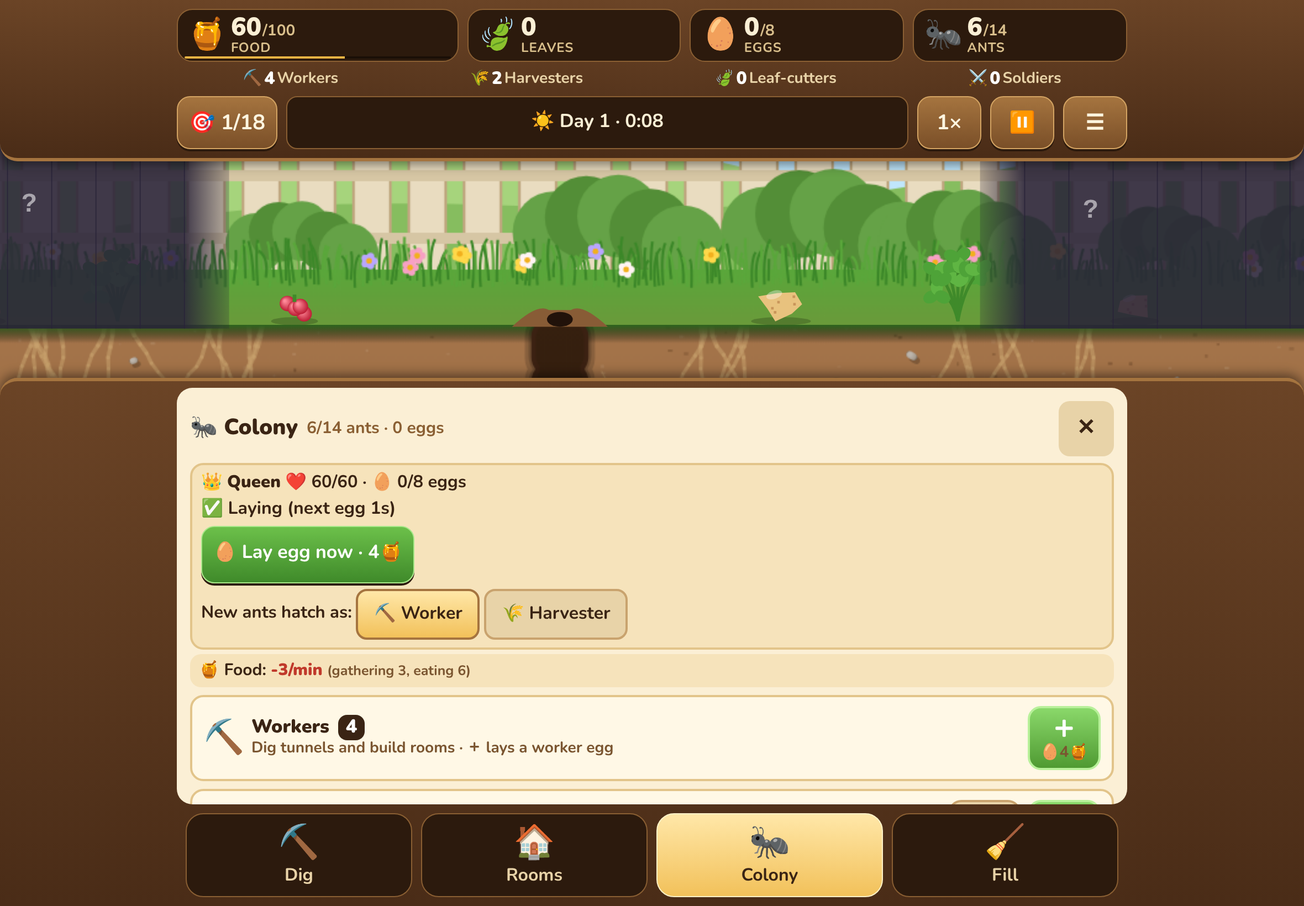
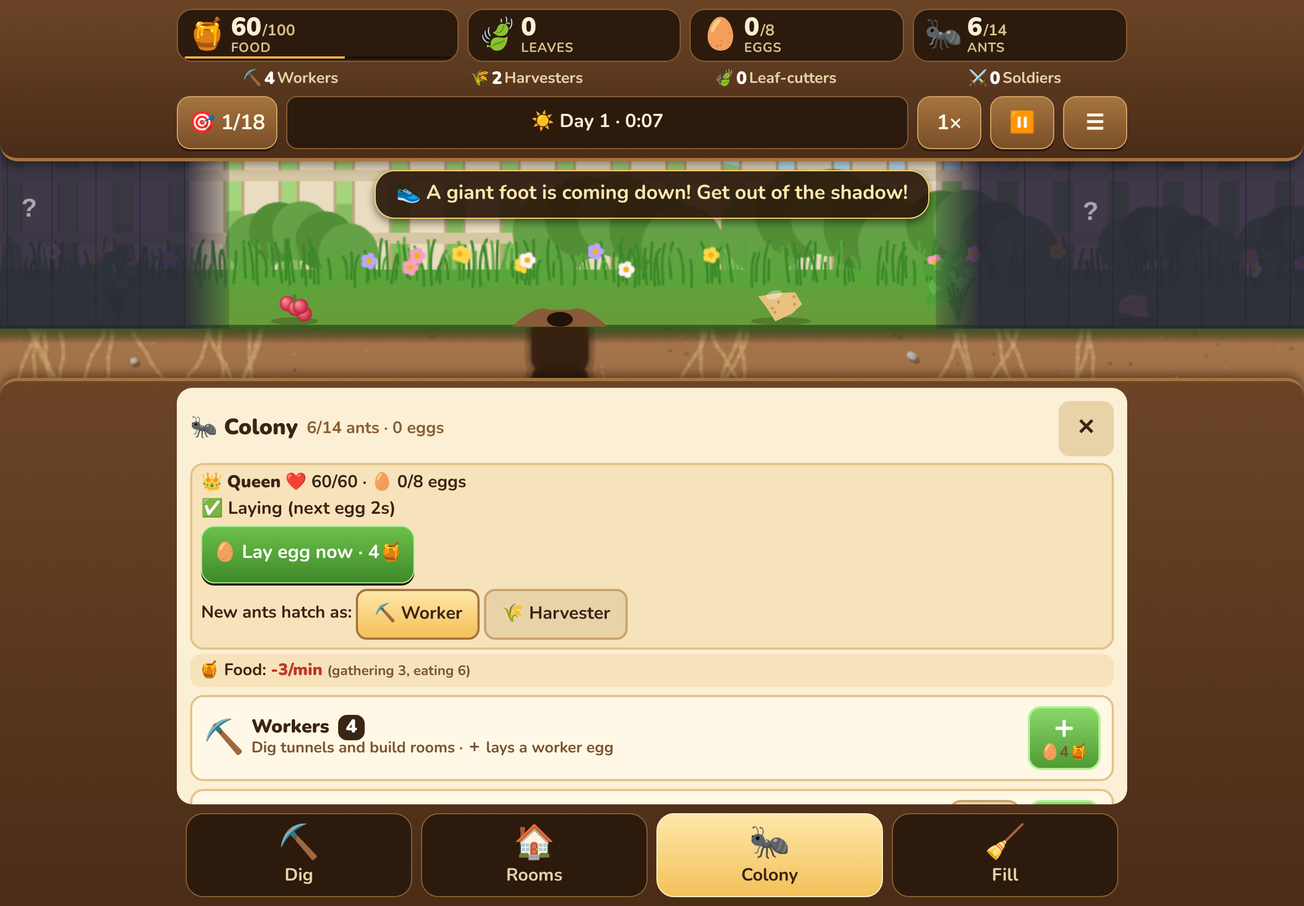
v1.2.0: kid-friendly balance from playthroughs (Easy raids spare queen/workers, slower starvation, idle workers help gather, no stacked raids, softer Hard hazards), Surface tutorial step, coach no longer covers Nest/Surface toggle, queen-regen death fix; balance + playthrough tests

Changed region(s): [[0.2784, 0.1555, 0.8042, 0.3732], [0.0, 0.2177, 0.0309, 0.2488]]

diff --git a/sim.js b/sim.js
@@ -1,6 +1,6 @@
 'use strict';
 // ================= Ant Haven — simulation =================
-const VERSION = 'ah-v1.1.1';
+const VERSION = 'ah-v1.2.0';
 const CS = 24, COLS = 64, ROWS = 34, ENT = 32, SURF_H = 300, NC = COLS * ROWS;
 const WW = COLS * CS, WH = ROWS * CS, ENTX = (ENT + .5) * CS, ENTI = ENT;  // entrance cell (ENT,0)
 const SOIL = 0, DUG = 1, PLAN = 2, ROCK = 3;
@@ -39,8 +39,8 @@ const BIOMES = {
   bloom: { name: 'Wild Bloom', emoji: '🌸', soon: true, card: ['#d96ba8', '#ffd6ea'] },
 };
 const DIFF = {
-  easy: { name: 'Easy', food: 50, eat: 1 / 85, raidFirst: 420, raidEvery: 240, raidBase: 3, raidGrow: 1, hp: 1, hillHp: 320, guards: 3, starve: .22, rainMul: 1 },
-  hard: { name: 'Hard', food: 40, eat: 1 / 62, raidFirst: 300, raidEvery: 180, raidBase: 4, raidGrow: 2, hp: 1.25, hillHp: 520, guards: 5, starve: .4, rainMul: 1.4 },
+  easy: { name: 'Easy', food: 50, eat: 1 / 85, raidFirst: 420, raidEvery: 240, raidBase: 3, raidGrow: 1, hp: 1, hillHp: 320, guards: 3, starve: .07, rainMul: 1, qRegen: .3, qSafe: true },
+  hard: { name: 'Hard', food: 40, eat: 1 / 62, raidFirst: 300, raidEvery: 180, raidBase: 4, raidGrow: 2, hp: 1.25, hillHp: 520, guards: 5, starve: .16, rainMul: 1.4, qRegen: .08, qSafe: false },
 };
 const ROOMS = {
   home: { name: 'Royal Nook', icon: '🏡', w: 5, h: 2, cost: {}, desc: 'Your starting chamber', cap: 100, eggs: 2, pop: 14 },
@@ -298,7 +298,7 @@ function assign(k, dir) {   // dir +1: convert a worker into k; -1: convert a k 
     return { ok: true, u };
   } else { const u = pickConvert(k); if (!u) return { ok: false, why: `No ${UT[k].name.toLowerCase()}s` }; setRole(u, 'worker'); return { ok: true, u }; }
 }
-function setRole(u, k) { const f = u.hp / u.max; u.k = k; u.max = UT[k].hp; u.hp = Math.max(1, Math.round(u.max * f)); u.st = 'idle'; u.job = -1; u.carry = 0; u.mode = 'guard'; u.wait = 0; u.train = 0; }
+function setRole(u, k) { const f = u.hp / u.max; u.k = k; u.help = 0; u.max = UT[k].hp; u.hp = Math.max(1, Math.round(u.max * f)); u.st = 'idle'; u.job = -1; u.carry = 0; u.mode = 'guard'; u.wait = 0; u.train = 0; }
 function orderSoldiers(ids, x, y, attack) {
   let n = 0; for (const id of ids) { const u = uById(id); if (!u || u.k !== 'soldier' || u.yd) continue;
     if (attack) { u.mode = 'attack'; u.path = []; u.rt = 0; } else { u.mode = 'move'; const gx = x + (n % 4 - 1.5) * 9, gy = isUnder(y) ? y : -3 - (n % 3) * 3; u.tx = gx; u.ty = gy; if (!route(u, gx, gy)) { u.mode = 'guard'; continue; } }
@@ -308,7 +308,7 @@ function guardSoldiers(ids) { for (const id of ids) { const u = uById(id); if (u
 
 // ---------------- AI ----------------
 function enemyNear(u, r, filter) { let best = null, bd = r; for (const e of S.units) { if (e.tm === u.tm || e.hp <= 0 || !e.yd !== !u.yd) continue; if (filter && !filter(e)) continue; const d = dist(u, e); if (d < bd) { bd = d; best = e; } } return best; }
-function hit(u, e, dt) { e.hp -= UT[u.k].dps * dt; u.atk = .25; u.ang = Math.atan2(e.y - u.y, e.x - u.x); e.lastHit = u.id;
+function hit(u, e, dt) { if (e.k === 'raider') e.lastBy = u.id; e.hp -= UT[u.k].dps * (u.k === 'raider' && e.k !== 'soldier' && D().qSafe ? .4 : 1) * dt; u.atk = .25; u.ang = Math.atan2(e.y - u.y, e.x - u.x); e.lastHit = u.id;
   if (rnd() < dt * 4) parts.push({ x: (u.x + e.x) / 2, y: (u.y + e.y) / 2 - 3, vx: (rnd() - .5) * 40, vy: -20 - rnd() * 30, t: .4, c: '#fff6c8', r: 1.2 }); }
 function engage(u, e, dt) {
   if (dist(u, e) < 15) { hit(u, e, dt); return; }
@@ -338,7 +338,7 @@ function deliver(u, leaf) {
   u.carry = 0;
 }
 function thinkForager(u, dt, leaf) {
-  const e = enemyNear(u, 14); if (e) { hit(u, e, dt); return; }
+  const e = D().qSafe ? null : enemyNear(u, 14); if (e) { hit(u, e, dt); return; }
   if (u.wait > 0) { u.wait -= dt; return; }
   if (u.carry > 0) {
     if (u.st !== 'home') { const r = depot(leaf), p = rndRoomPt(r); u.st = 'home'; if (!route(u, p.x, p.y)) { deliver(u, leaf); u.st = 'idle'; } return; }
@@ -367,8 +367,13 @@ function findDig(u) {
       if (n >= 0 && S.grid[n] === PLAN && !claimSet.has(n) && wl[n] < .5) { plan = n; return true; } return false; });
   return g < 0 ? null : { stand: g, plan };
 }
+function canHelp(u) { const ws = units('worker'); return ws.length >= 2 && ws[0] !== u && S.res.food < foodCap() * .92 && !hazardOn(); }
 function thinkWorker(u, dt) {
-  const e = enemyNear(u, 14); if (e) { hit(u, e, dt); return; }
+  const e = D().qSafe ? null : enemyNear(u, 14); if (e) { hit(u, e, dt); return; }
+  if (u.help) {   // idle worker lending a hand with food; goes back to digging when there is work
+    if (!u.carry) { u.hl = (u.hl || 0) - dt; if (u.hl <= 0) { u.hl = 1; if (findDig(u) || !canHelp(u)) { u.help = 0; u.st = 'idle'; u.path = []; u.idle0 = 0; } } }
+    if (u.help) { thinkForager(u, dt, false); return; }
+  }
   if (u.wait > 0) { u.wait -= dt; return; }
   if (u.job >= 0) {
     if (S.grid[u.job] !== PLAN) { u.job = -1; u.st = 'idle'; return; }
@@ -384,7 +389,8 @@ function thinkWorker(u, dt) {
   if (u.st === 'wander') { if (moveAlong(u, dt)) { u.st = 'idle'; u.wait = 1 + rnd() * 2; } return; }
   u.look = (u.look || 0) - dt; if (u.look > 0) return; u.look = .4 + rnd() * .3;
   const j = findDig(u);
-  if (j) { u.job = j.plan; claimSet.add(j.plan); const p = pt(j.stand, 4), q = pt(j.plan, 0); p.x += (q.x - p.x) * .3; p.y += (q.y - p.y) * .3; u.st = route(u, p.x, p.y) ? 'walk' : 'idle'; if (u.st === 'idle') { claimSet.delete(u.job); u.job = -1; } return; }
+  if (j) { u.idle0 = 0; u.job = j.plan; claimSet.add(j.plan); const p = pt(j.stand, 4), q = pt(j.plan, 0); p.x += (q.x - p.x) * .3; p.y += (q.y - p.y) * .3; u.st = route(u, p.x, p.y) ? 'walk' : 'idle'; if (u.st === 'idle') { claimSet.delete(u.job); u.job = -1; } return; }
+  if (!u.idle0) u.idle0 = S.t; if (S.t - u.idle0 > 12 && canHelp(u)) { u.help = 1; u.idle0 = 0; u.st = 'idle'; u.path = []; return; }
   // idle: wander between rooms
   const rs = doneRooms(); const r = rs[Math.floor(rnd() * rs.length)]; const p = rndRoomPt(r); if (route(u, p.x, p.y)) u.st = 'wander'; u.wait = .5 + rnd() * 2;
 }
@@ -406,17 +412,17 @@ function thinkSoldier(u, dt) {
   if (u.path.length) moveAlong(u, dt);
 }
 function thinkQueen(u, dt) {
-  const e = enemyNear(u, 15); if (e) { hit(u, e, dt); return; }
+  const e = D().qSafe ? null : enemyNear(u, 15); if (e) { hit(u, e, dt); return; }
   if (u.path.length) { moveAlong(u, dt); return; }
   u.wait -= dt; if (u.wait <= 0) { u.wait = 4 + rnd() * 5; const r = S.rooms.find(r => r.k === 'queen' && r.done) || homeRoom(); const p = rndRoomPt(r); route(u, p.x, p.y); }
 }
 function raidTarget() {
   const st = S.rooms.filter(r => r.done && ROOMS[r.k].cap);
   if (S.res.food >= 1 && st.length) return rndRoomPt(st[Math.floor(rnd() * st.length)]);
-  const q = queen(); return q ? { x: q.x, y: q.y } : rndRoomPt(homeRoom());
+  const q = queen(); return q && !D().qSafe ? { x: q.x, y: q.y } : rndRoomPt(st.length ? st[0] : homeRoom());
 }
 function thinkRaider(u, dt) {
-  const e = enemyNear(u, 15); if (e) { hit(u, e, dt); return; }
+  const e = enemyNear(u, 15, D().qSafe ? (x => x.k === 'soldier' || x.id === u.lastBy) : null); if (e) { hit(u, e, dt); return; }
   if (u.st === 'in') {
     const s = enemyNear(u, 70, e => e.k === 'soldier'); if (s) { engage(u, s, dt); return; }
     u.rt -= dt; if (!u.path.length && u.rt <= 0) { const p = raidTarget(); route(u, p.x, p.y); u.rt = 1.5; u.arr = 0; }
@@ -455,6 +461,7 @@ function eventsTick(dt) {
   // raids
   const lead = has('lookout') ? 45 : 12;
   if (!W.active && !W.warned && S.t > W.next - lead) { W.warned = true; say(has('lookout') ? '🔭 Lookout: enemy raid in 45s!' : '⚔ You hear marching… a raid is coming!', 'warn'); }
+  if (!W.active && S.t >= W.next && !H.on && S.yard && S.yard.foes.some(f => f.raid)) W.next = S.t + 45;   // don't stack with a Surface raid
   if (!W.active && S.t >= W.next && !H.on) {
     W.active = true; W.lost = 0; W.kills = 0; const n = dif.raidBase + Math.floor(W.n * dif.raidGrow) + (S.endless ? 2 : 0);
     const hx = !S.hill.dead ? S.hill.x : (W.n % 2 ? CS * 1.5 : WW - CS * 1.5);
@@ -477,7 +484,8 @@ function colonyTick(dt) {
   const dif = D(); const q = queen();
   // eating
   const e = upkeep() * dt; if (S.res.food >= e) { S.res.food -= e; S.st.eaten += e; } else { S.st.eaten += S.res.food; S.res.food = 0; }
-  if (S.res.food <= 0) { for (const u of S.units) if (u.tm === 0) u.hp -= dif.starve * (u.k === 'queen' ? .35 : 1) * dt; if (!S.flags.starveSaid || S.t - S.flags.starveSaid > 20) { S.flags.starveSaid = S.t; say('🍯 Out of food! Ants are starving — send harvesters!', 'bad'); } }
+  if (S.res.food <= 0) { for (const u of S.units) if (u.tm === 0 && !(u.k === 'harvester' || u.help || u.yd)) u.hp -= dif.starve * (u.k === 'queen' ? .35 : 1) * dt; if (!S.flags.starveSaid || S.t - S.flags.starveSaid > 20) { S.flags.starveSaid = S.t; say('🍯 Out of food! Ants are starving — send harvesters!', 'bad'); } }
+  if (q && q.hp > 0 && S.res.food > 0 && q.hp < q.max) q.hp = Math.min(q.max, q.hp + (dif.qRegen || 0) * dt);
   // queen lays eggs
   if (q) { const qr = S.rooms.find(r => r.k === 'queen' && r.done && !r.fl);
     S.qT -= dt * (qr ? 2 : 1) * ((S.haz.on && B().hazard.kind === 'cold') ? .6 : 1);
@@ -525,7 +533,7 @@ function goalsTick() { for (const [id, name, f] of GOALS) if (!S.goals[id] && f(
 function step(dt) {
   if (!S || S.over) return;
   S.t += dt;
-  if (S.tut < 5 && S.t < 360) { S.rain.next += dt; S.raid.next += dt; S.haz.next += dt; }   // calm while learning
+  if (S.tut < 6 && S.t < 360) { S.rain.next += dt; S.raid.next += dt; S.haz.next += dt; }   // calm while learning
   eventsTick(dt);
   S.wT = (S.wT || 0) - dt;
   if (S.water > 0) { const sumps = S.rooms.filter(r => r.k === 'sump' && r.done && roomCells(r).some(i => wl[i] > .05)).length; S.water = Math.max(0, S.water - (.05 + .0025 * dugCount + .4 * sumps) * dt); }

diff --git a/ui.js b/ui.js
@@ -15,6 +15,7 @@ const TUT = [
   { t: 'Time to dig! Tap <b>⛏ Dig</b>, then drag your finger from the tunnel into the dirt. Each cell costs 1 🍯.', hi: 'tab-dig', ok: () => S.st.planned >= 4 },
   { t: 'Rooms go next to tunnels. Tap <b>🏠 Rooms → Food Storage</b>, then tap beside your tunnel.', hi: 'tab-rooms', ok: () => roomsOf('storage').length > 0 },
   { t: 'Add a <b>🛏 Sleeping Den</b> so your colony can grow past 14 ants. Workers dig rooms out for you.', hi: 'tab-rooms', ok: () => roomsOf('den').length > 0 },
+  { t: 'There\'s a big yard outside! Tap <b>🗺 Surface</b>, then <b>🌾 Send</b> and tap food. Tap <b>🕳 Nest</b> to come back.', hi: 'vt-yard', ok: () => S.flags.yard },
   { t: 'You\'ve got it! Keep food above zero, follow <b>🎯 Goals</b>, and train soldiers before the first raid. Tap ✓.', hi: null, ok: () => false, done: true },
 ];
 function tutTick() {
@@ -95,7 +96,7 @@ function renderRooms(soft) {
 }
 function renderColony() {
   const el = $('sheet'); el.classList.remove('hidden'); const net = netPerMin();
-  const desc = { worker: 'Dig tunnels and build rooms', harvester: 'Bring food from the surface', cutter: 'Carry leaves to the Fungus Garden', soldier: 'Guard the nest, attack the enemy hill' };
+  const desc = { worker: 'Dig tunnels and build rooms · idle ones help gather food', harvester: 'Bring food from the surface', cutter: 'Carry leaves to the Fungus Garden', soldier: 'Guard the nest, attack the enemy hill' };
   const lay = canLay();
   const rows = ROLES.map(k => { const tr = TRAIN[k], v = k === 'worker' ? lay : canTrain(k);
     const plus = k === 'worker' ? `<button class="pm plus ${v.ok ? '' : 'off'}" data-a="lay:worker">＋<small>🥚${EGG_FOOD}🍯</small></button>` : `<button class="pm plus ${v.ok ? '' : 'off'}" data-a="+${k}">＋${tr ? `<small>${tr.food}🍯</small>` : ''}</button>`;
@@ -326,7 +327,7 @@ $('btn-goals').onclick = () => { UI.paused = true;
   overlay(`<h2>🎯 Goals</h2><ul class="goals">${GOALS.map(([id, n]) => `<li class="${S.goals[id] ? 'done' : ''}">${S.goals[id] ? '✅' : '⬜'} ${n}</li>`).join('')}</ul><p class="bdesc">Each goal gives +${GOAL_REWARD} 🍯. Destroy the enemy hill to win!</p><button class="big green" data-o="goalsclose">▶ Back to the colony</button>`); };
 function startGame(s, cont) {
   S = s; delete S.demo; UI.running = true; UI.paused = false; UI.sel = []; UI.speed = 1; $('btn-speed').textContent = '1×'; $('btn-speed').classList.remove('on'); $('btn-pause').textContent = '⏸';
-  inc = new Array(12).fill(0); parts.length = 0; events.length = 0; closeOverlay(); $('hud').classList.remove('hidden'); closeSheet(); setMode(null);
+  inc = new Array(12).fill(0); parts.length = 0; events.length = 0; $('toasts').innerHTML = ''; closeOverlay(); $('hud').classList.remove('hidden'); closeSheet(); setMode(null);
   let tutDone = false; try { tutDone = localStorage.getItem(TUT_KEY) === '1'; } catch (e) {} if (!cont && tutDone) S.tut = TUT.length;
   requestAnimationFrame(() => { measureHud(); cam.z = 1.15 * uiScale(); cam.x = ENTX + 50; cam.y = cont ? 60 : -30; clampCam(); });
   $('coach-t').dataset.k = ''; setView('nest', true); hud(); tutTick(); if (!cont) save();

diff --git a/yard.js b/yard.js
@@ -6,7 +6,7 @@ const OUT_POP = 6, OUT_FOOD = 2, OUT_FOOD_T = 10;          // outpost: +6 ant sp
 const YHAZ = {   // hazard tuning (selected by the Surface hazards setting)
   easy: { foot: [80, 115], footGrow: 2.2, footR: 48, react: .8, notice: .7, glass: [140, 190], glassLife: 15, glassSpd: 28, glassDps: 5, glassR: 24,
     bug: [75, 105], bugMax: 2, bugHp: 1, first: 60 },
-  hard: { foot: [42, 62], footGrow: 1.7, footR: 62, react: 1.0, notice: .35, glass: [80, 110], glassLife: 24, glassSpd: 42, glassDps: 9, glassR: 30,
+  hard: { foot: [55, 80], footGrow: 2.0, footR: 58, react: .85, notice: .5, glass: [90, 120], glassLife: 22, glassSpd: 40, glassDps: 7, glassR: 30,
     bug: [45, 65], bugMax: 4, bugHp: 1.45, first: 35 },
 };
 const YDIF = {   // rival colonies (selected by game difficulty)
@@ -247,7 +247,7 @@ function hazardTick(dt) {
 function yardTick(dt) {
   const yh = Y(); if (!yh) return; const d = YDIF[S.diff] || YDIF.easy, H = YHAZ[yh.hzLevel];
   if (!yh.init) { yh.init = 1; yardInitRivals(); }
-  if (S.tut < 5 && S.t < 360) { for (const k in yh.nx) yh.nx[k] += dt; }
+  if (S.tut < 6 && S.t < 360) { for (const k in yh.nx) yh.nx[k] += dt; }
   const mine = yAnts();
   // scheduling
   if (H) {
@@ -257,6 +257,7 @@ function yardTick(dt) {
       if (nb < H.bugMax) { const ks = Object.keys(BUGS), k = ks[Math.floor(rnd() * ks.length)], ref = mine.length ? mine[Math.floor(rnd() * mine.length)] : HOME; let x, y;
         for (let t = 0; t < 20; t++) { const a = rnd() * 7, r = 320 + rnd() * 200; x = clamp(ref.x + Math.cos(a) * r, 60, YW - 60); y = clamp(ref.y + Math.sin(a) * r, 60, YH - 60); if (yd2({ x, y }, HOME) > 220) break; }
         spawnHazard(k, x, y); } } }
+  if (S.t >= yh.nx.raid && (S.raid.active || S.raid.next - S.t < 60)) yh.nx.raid = S.t + 60;   // don't stack with a nest raid
   if (S.t >= yh.nx.raid) { yh.nx.raid = S.t + d.raidEvery[0] + rnd() * (d.raidEvery[1] - d.raidEvery[0]); startRaid(); }
   hazardTick(dt);
   // rival colonies grow

diff --git a/draw.js b/draw.js
@@ -26,7 +26,7 @@ function measureHud() { const t = document.getElementById('top'), b = document.g
   const land = W > H && H < 500, co = document.getElementById('coach'), fb = document.getElementById('fabs'), ts = document.getElementById('toasts'), sheet = document.getElementById('sheet');
   if (!co) return; const sheetOpen = sheet && !sheet.classList.contains('hidden');
   if (land) { co.style.top = ''; co.style.bottom = ''; fb.style.bottom = ''; ts.style.top = ''; const vt0 = document.getElementById('vtog'), mi0 = document.getElementById('mini'); if (vt0) vt0.style.bottom = ''; if (mi0) mi0.style.bottom = ''; return; }
-  if (sheetOpen) { co.style.bottom = 'auto'; co.style.top = (VIEW.top + 6) + 'px'; } else { co.style.top = 'auto'; co.style.bottom = (VIEW.bot + 8) + 'px'; }
+  if (sheetOpen) { co.style.bottom = 'auto'; co.style.top = (VIEW.top + 6) + 'px'; } else { const v1 = document.getElementById('vtog'), m1 = document.getElementById('mini'); const lift = Math.max(v1 ? v1.offsetHeight : 0, m1 && getComputedStyle(m1).display !== 'none' ? m1.offsetHeight : 0); co.style.top = 'auto'; co.style.bottom = (VIEW.bot + 18 + lift) + 'px'; }
   fb.style.bottom = (VIEW.bot + 10) + 'px'; const vt = document.getElementById('vtog'); if (vt) { vt.style.bottom = (VIEW.bot + 10) + 'px'; vt.style.opacity = sheetOpen ? '0' : ''; vt.style.pointerEvents = sheetOpen ? 'none' : ''; } const mi = document.getElementById('mini'); if (mi) mi.style.bottom = (VIEW.bot + 10) + 'px'; fb.style.opacity = sheetOpen ? '0' : ''; fb.style.pointerEvents = sheetOpen ? 'none' : '';
   ts.style.top = (VIEW.top + 8 + (sheetOpen && !co.classList.contains('hidden') ? co.offsetHeight + 6 : 0)) + 'px'; }
 

diff --git a/sw.js b/sw.js
@@ -1,4 +1,4 @@
-const VERSION = 'ah-v1.1.1';
+const VERSION = 'ah-v1.2.0';
 const FILES = ['./', 'index.html', 'style.css', 'sim.js', 'yard.js', 'yardui.js', 'draw.js', 'ui.js', 'manifest.webmanifest', 'icons/icon-152.png', 'icons/icon-167.png', 'icons/icon-180.png', 'icons/icon-192.png', 'icons/icon-512.png'];
 self.addEventListener('install', e => { e.waitUntil(caches.open(VERSION).then(c => c.addAll(FILES)).then(() => self.skipWaiting())); });
 self.addEventListener('activate', e => { e.waitUntil(caches.keys().then(ks => Promise.all(ks.filter(k => k !== VERSION).map(k => caches.delete(k)))).then(() => self.clients.claim())); });

diff --git a/tests/balance.py b/tests/balance.py
@@ -1,0 +1,60 @@
+"""Balance / kid-friendliness regression tests. Run: venv/bin/python tests/balance.py [url]"""
+import sys
+from playwright.sync_api import sync_playwright
+URL = sys.argv[1] if len(sys.argv) > 1 else "http://127.0.0.1:8811/"
+ok, bad = [], []
+def check(c, m): (ok if c else bad).append(m); print(("PASS " if c else "FAIL ") + m, flush=True)
+with sync_playwright() as p:
+    b = p.chromium.launch(executable_path="/usr/bin/google-chrome", args=["--no-sandbox"])
+    pg = b.new_page(viewport={"width": 390, "height": 844}); errs = []
+    pg.on("pageerror", lambda e: errs.append(str(e)))
+    def ev(js, arg=None): return pg.evaluate(js, arg) if arg is not None else pg.evaluate(js)
+    def run(sec): ev(f"() => {{ for (let i = 0; i < 30 * {sec}; i++) {{ AH.step(1/30); if (AH.S.over) break; }} }}")
+    def new(diff, seed): ev(f"() => {{ AH.startGame(AH.newState('backyard', '{diff}', {seed})); AH.S.tut = 99; AH.UI.paused = true; }}")
+    pg.goto(URL); pg.wait_for_selector("[data-o=new]"); pg.wait_for_timeout(600)
+    ev("() => { localStorage.clear(); localStorage.setItem('anthaven-tut-done', '1'); }")
+    # tutorial teaches the Surface
+    t = ev("() => AH.TUT.map(s => s.hi || '')"); check(len(t) <= 8 and 'vt-yard' in t, f"tutorial is short ({len(t)} steps) and includes the Surface step")
+    # stale toasts cleared on new game
+    ev("() => { const d = document.createElement('div'); d.className = 'toast'; d.textContent = 'old'; document.getElementById('toasts').appendChild(d); }")
+    new('easy', 5); check(ev("() => document.getElementById('toasts').children.length") == 0, "new game clears old toasts")
+    # starvation is slow and gatherers keep working
+    new('easy', 5); ev("() => { AH.sendOut('harvester', 2); }"); run(2)
+    ev("() => { AH.S.res.food = 0; }")
+    n0 = ev("() => AH.adults()"); yh0 = ev("() => AH.S.units.filter(u => u.yd).map(u => u.hp).join()")
+    ev("() => { for (let i = 0; i < 30 * 60; i++) { AH.S.res.food = 0; AH.step(1/30); } }")
+    check(ev("() => AH.adults()") >= n0 - 1 and not ev("() => AH.S.over"), f"easy: 60s with no food doesn't wipe the colony ({n0}→{ev('() => AH.adults()')})")
+    check(ev("() => AH.S.units.filter(u => u.yd && u.hp < u.max && !u.lastHit).length") == 0, "starving doesn't hurt ants out on the Surface")
+    # idle workers help gather
+    new('easy', 6); ev("() => { for (let i = 0; i < 3; i++) AH.addU('worker', AH.ENTX * 1 + i, 3); AH.S.res.food = 10; AH.S.digp.fill(0); }")
+    h = ev("() => { let m = 0; for (let i = 0; i < 30 * 40; i++) { AH.S.digp.fill(0); AH.step(1/30); m = Math.max(m, AH.units('worker').filter(u => u.help).length); } return m; }")
+    check(h >= 1, f"idle workers switch to helping gather food (max {h} helping)")
+    h2 = ev("() => { for (let i = 0; i < 30 * 15; i++) { AH.S.res.food = AH.foodCap(); AH.step(1/30); } return AH.units('worker').filter(u => u.help && !u.carry).length; }")
+    check(h2 == 0, f"helpers go back to nest work when storage is full ({h2} still helping)")
+    # easy raid: queen safe, workers survive, no soldiers needed
+    new('easy', 7); ev("() => { for (let i = 0; i < 3; i++) AH.addU('worker', AH.ENTX + i, 3); AH.S.raid.next = AH.S.t + 1; AH.S.raid.warned = true; }"); run(150)
+    r = ev("() => { const q = AH.units('queen')[0]; return { q: q && q.hp / q.max, w: AH.units('worker').length, over: AH.S.over, raids: AH.S.st.raids }; }")
+    check(not r["over"] and r["q"] and r["q"] > .9 and r["w"] >= 3, f"easy raid with no soldiers: queen safe ({r['q']}), workers alive ({r['w']})")
+    # hard raid still bites
+    new('hard', 7); ev("() => { AH.S.raid.next = AH.S.t + 1; AH.S.raid.warned = true; }"); run(60)
+    check(ev("() => AH.S.st.lost") > 0 or ev("() => AH.S.raid.lost") > 0, "hard raid still causes losses (challenge kept)")
+    # raids don't stack
+    new('easy', 8); run(5); ev("() => { AH.startRaid(); AH.S.raid.next = AH.S.t + 1; AH.S.raid.warned = true; }"); run(8)
+    check(not ev("() => AH.S.raid.active"), "nest raid waits while a Surface raid is marching")
+    # save/load mid-game
+    new('easy', 9); run(300)
+    a = ev("() => ({ n: AH.S.units.length, f: Math.round(AH.S.res.food), t: Math.round(AH.S.t) })")
+    ev("() => { AH.restore(JSON.parse(AH.serialize())); }")
+    c = ev("() => ({ n: AH.S.units.length, f: Math.round(AH.S.res.food), t: Math.round(AH.S.t) })")
+    run(30); check(a == c and not errs, f"save/load mid-game round-trips and keeps running {a}")
+    for vw, vh in ((390, 844), (820, 1180), (1180, 820)):
+        pg.set_viewport_size({"width": vw, "height": vh}); new('easy', 3); ev("() => { AH.S.tut = 5; AH.UI.paused = true; }"); pg.wait_for_timeout(300)
+        for view in ("nest", "yard"):
+            ev(f"() => AH.setView('{view}')"); pg.wait_for_timeout(400)
+            o = ev("""() => { const a = document.getElementById('coach').getBoundingClientRect(), r = [document.getElementById('vtog'), document.getElementById('mini')].filter(e => e && e.offsetHeight && getComputedStyle(e).display !== 'none').map(e => e.getBoundingClientRect());
+              return !document.getElementById('coach').classList.contains('hidden') && a.height > 0 && r.every(b => b.bottom <= a.top || b.top >= a.bottom || b.right <= a.left || b.left >= a.right); }""")
+            check(o, f"{vw}x{vh} {view}: tutorial card doesn't cover the Nest/Surface toggle or minimap")
+    pg.set_viewport_size({"width": 390, "height": 844})
+    check(not errs, "no JS errors" + (": " + "; ".join(errs[:3]) if errs else ""))
+    b.close()
+print(f"\n{len(ok)} passed, {len(bad)} failed"); sys.exit(1 if bad else 0)

diff --git a/tests/playthrough.py b/tests/playthrough.py
@@ -1,0 +1,46 @@
+"""Automated playthroughs (~18 min game time): active, passive (kid does little), nest-only. Prints a log of colony state.
+Run: venv/bin/python tests/playthrough.py [url] [minutes]"""
+import sys, json, re
+from playwright.sync_api import sync_playwright
+URL = sys.argv[1] if len(sys.argv) > 1 else "http://127.0.0.1:8811/"
+MIN = float(sys.argv[2]) if len(sys.argv) > 2 else 18
+src = open('/workspace/ant-colony/tests/smoke.py').read()
+BOT = re.search(r'BOT = """(.*?)"""', src, re.S).group(1); FIND = re.search(r'FIND_ROOM = """(.*?)"""', src, re.S).group(1)
+YARDBOT = """(style) => { const A = AH, S = A.S, Y = S.yard, log = [];
+  if (style === 'nest') return log;
+  const out = A.yAnts('harvester').length, all = A.count('harvester'); if (out < Math.floor(all / 2)) { const g = A.sendOut('harvester', 2); if (g.length) log.push('send-h' + g.length); }
+  if (style === 'passive') return log;
+  const sol = A.units('soldier').filter(u => !u.yd && !u.train), ys = A.yAnts('soldier');
+  const bug = Y.foes.find(f => f.c < 0 && A.yExplored(f.x, f.y)); const raid = Y.foes.filter(f => f.raid);
+  if ((bug || raid.length) && sol.length + ys.length >= 4) { if (sol.length > 1) A.sendOut('soldier', sol.length - 1); const t = raid[0] || bug; A.yOrder(A.yAnts('soldier').map(u => u.id), { k: 'attack', id: t.id }); log.push('atk'); }
+  else if (sol.length + ys.length >= 9) { const c = Y.cols.find(c => c.own === 'rival'); if (c) { if (sol.length > 2) A.sendOut('soldier', sol.length - 2); A.yOrder(A.yAnts('soldier').map(u => u.id), { k: 'hill', id: c.i }); log.push('storm' + c.i); } }
+  return log; }"""
+METRICS = """() => { const A = AH, S = A.S, Y = S.yard; const yh = A.yAnts();
+  const P = (window.__pos = window.__pos || {}); let stuck = 0; for (const u of yh) { const p = P[u.id]; if (!p || Math.hypot(p[0] - u.x, p[1] - u.y) > 3) P[u.id] = [u.x, u.y, S.t]; else if (u.o && !(u.hid > 0) && S.t - p[2] > 25) stuck++; }
+  const idleW = A.units('worker').filter(u => u.job < 0).length, plan = S.grid.filter(v => v === 2).length;
+  return { t: Math.round(S.t), food: Math.round(S.res.food), cap: A.foodCap(), net: Math.round(A.netPerMin()), ants: A.adults(), pop: A.popCap(), w: A.count('worker'), h: A.count('harvester'), s: A.count('soldier'),
+    yard: yh.length, stuck, idleW, plan, eggs: S.eggs.length, lay: A.canLay().why || 'ok', rivals: Y.cols.map(c => c.own === 'me' ? 'MINE' : Math.round(c.hp) + '/' + Y.foes.filter(f => f.c === c.i).length).join(' '),
+    bugs: Y.foes.filter(f => f.c < 0).length, lost: S.st.lost, kills: S.st.kills, raids: S.st.raids, goals: Object.keys(S.goals).length, over: S.over, why: S.why, hill: S.hill.dead, q: Math.round((A.units('queen')[0] || {}).hp || 0) }; }"""
+def play(pg, diff, style, minutes, seed):
+    pg.evaluate(f"() => {{ AH.startGame(AH.newState('backyard', '{diff}', {seed})); AH.S.tut = 99; AH.UI.paused = true; window.__pos = {{}}; }}")
+    rows = []
+    for k in range(int(minutes * 6)):
+        if style in ('active', 'nest'): pg.evaluate(f"([F]) => {{ const bot = eval('(' + {json.dumps(BOT)} + ')'); return bot(F); }}", [FIND])
+        else: pg.evaluate("() => { const S = AH.S; if (S.res.food < 15 && AH.count('worker') > 2) AH.assign('harvester', 1); }")
+        pg.evaluate(f"(s) => {{ const f = eval('(' + {json.dumps(YARDBOT)} + ')'); return f(s); }}", style)
+        pg.evaluate("() => { for (let i = 0; i < 300; i++) AH.step(1/30); }")
+        m = pg.evaluate(METRICS); rows.append(m)
+        if m["over"]: break
+    return rows
+if __name__ == "__main__":
+  with sync_playwright() as p:
+    b = p.chromium.launch(executable_path="/usr/bin/google-chrome", args=["--no-sandbox"])
+    pg = b.new_page(viewport={"width": 390, "height": 844}); errs = []; pg.on("pageerror", lambda e: errs.append(str(e)))
+    pg.goto(URL); pg.wait_for_selector("[data-o=new]"); pg.evaluate("() => localStorage.setItem('anthaven-tut-done','1')")
+    for diff in ("easy", "hard"):
+        for style in ("active", "passive", "nest"):
+            for seed in (11, 22):
+                rows = play(pg, diff, style, MIN, seed); last = rows[-1]
+                print(f"\n=== {diff} {style} seed {seed}: end t={last['t']} over={last['over']} {last['why']}", flush=True)
+                for r in rows[::12] + [last]: print(json.dumps(r), flush=True)
+    print("errors:", errs[:3]); b.close()

diff --git a/tests/smoke.py b/tests/smoke.py
@@ -106,7 +106,9 @@ with sync_playwright() as p:
     pg.evaluate("([x, y]) => { AH.cam.x = x; AH.cam.y = y; }", [(s["x"] + 1.5) * 24, (s["y"] + 1) * 24]); pg.wait_for_timeout(60)
     gp = pg.evaluate(W2S, [(s["x"] + 1.5) * 24, (s["y"] + 1) * 24 + 30 / 1.15]); tap(gp["x"], gp["y"]); pg.wait_for_timeout(150)
     check(len(pg.evaluate("() => AH.roomsOf('den')")) == 1, "Sleeping Den placed")
-    check(pg.evaluate("() => AH.S.tut") == 5 and "Got it" in pg.inner_text("#coach"), "tutorial reaches its last card")
+    check(pg.evaluate("() => AH.S.tut") == 5 and "Surface" in pg.inner_text("#coach"), "tutorial step 6 points to the Surface map")
+    pg.click("#vt-yard"); pg.wait_for_timeout(150); pg.click("#yb-harv"); pg.wait_for_timeout(150); pg.click("#vt-nest"); pg.wait_for_timeout(300)
+    check(pg.evaluate("() => AH.S.tut") == 6 and "Got it" in pg.inner_text("#coach"), "tutorial reaches its last card")
     pg.click("#coach-ok"); check(not pg.is_visible("#coach"), "tutorial closes")
     # cancel works
     pg.click("#tab-rooms"); pg.click("[data-room=pantry]"); pg.click("#mode-x"); check(pg.evaluate("() => AH.UI.mode") is None, "Cancel exits room placement")
